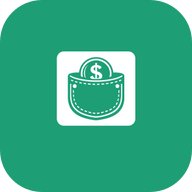
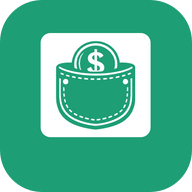
fix: icône PWA zoomée + icône verte carrée sur pages auth

Changed region(s): [[0.1875, 0.1562, 0.8125, 0.7188]]

diff --git a/frontend/src/pages/Home.jsx b/frontend/src/pages/Home.jsx
@@ -21,9 +21,7 @@ export default function Home() {
     <div className="min-h-screen bg-gradient-to-br from-sedo-green to-sedo-green-dark flex flex-col">
       <div className="flex items-center justify-center pt-14 pb-8 px-6">
         <div className="text-center">
-          <div className="bg-white rounded-2xl px-6 py-3 inline-block shadow-md mx-auto mb-3">
-            <img src="/sedo-logo-white.jpeg" alt="SEDO" className="h-14 object-contain" />
-          </div>
+          <img src="/sedo-icon-green.jpeg" alt="SEDO" className="w-20 h-20 rounded-2xl object-cover mx-auto mb-3" />
           <p className="text-green-100 text-sm font-medium">Solution Intégrée d'Accompagnement des MPME</p>
         </div>
       </div>

diff --git a/frontend/src/pages/Login.jsx b/frontend/src/pages/Login.jsx
@@ -41,9 +41,7 @@ export default function Login() {
     <div className="min-h-screen bg-gradient-to-br from-sedo-green to-sedo-green-dark flex flex-col">
       <div className="flex items-center justify-center pt-14 pb-8 px-6">
         <div className="text-center">
-          <div className="bg-white rounded-2xl px-5 py-2 inline-block shadow-md mx-auto mb-2">
-            <img src="/sedo-logo-white.jpeg" alt="SEDO" className="h-12 object-contain" />
-          </div>
+          <img src="/sedo-icon-green.jpeg" alt="SEDO" className="w-20 h-20 rounded-2xl object-cover mx-auto mb-2" />
           <p className="text-green-100 text-xs">Connexion à votre espace</p>
         </div>
       </div>

diff --git a/frontend/src/pages/Register.jsx b/frontend/src/pages/Register.jsx
@@ -47,9 +47,7 @@ export default function Register() {
     <div className="min-h-screen bg-gradient-to-br from-sedo-green to-sedo-green-dark flex flex-col">
       <div className="flex items-center justify-center pt-12 pb-6 px-6">
         <div className="text-center">
-          <div className="bg-white rounded-2xl px-5 py-2 inline-block shadow-md mx-auto mb-1">
-            <img src="/sedo-logo-white.jpeg" alt="SEDO" className="h-10 object-contain" />
-          </div>
+          <img src="/sedo-icon-green.jpeg" alt="SEDO" className="w-20 h-20 rounded-2xl object-cover mx-auto mb-1" />
         </div>
       </div>
 
